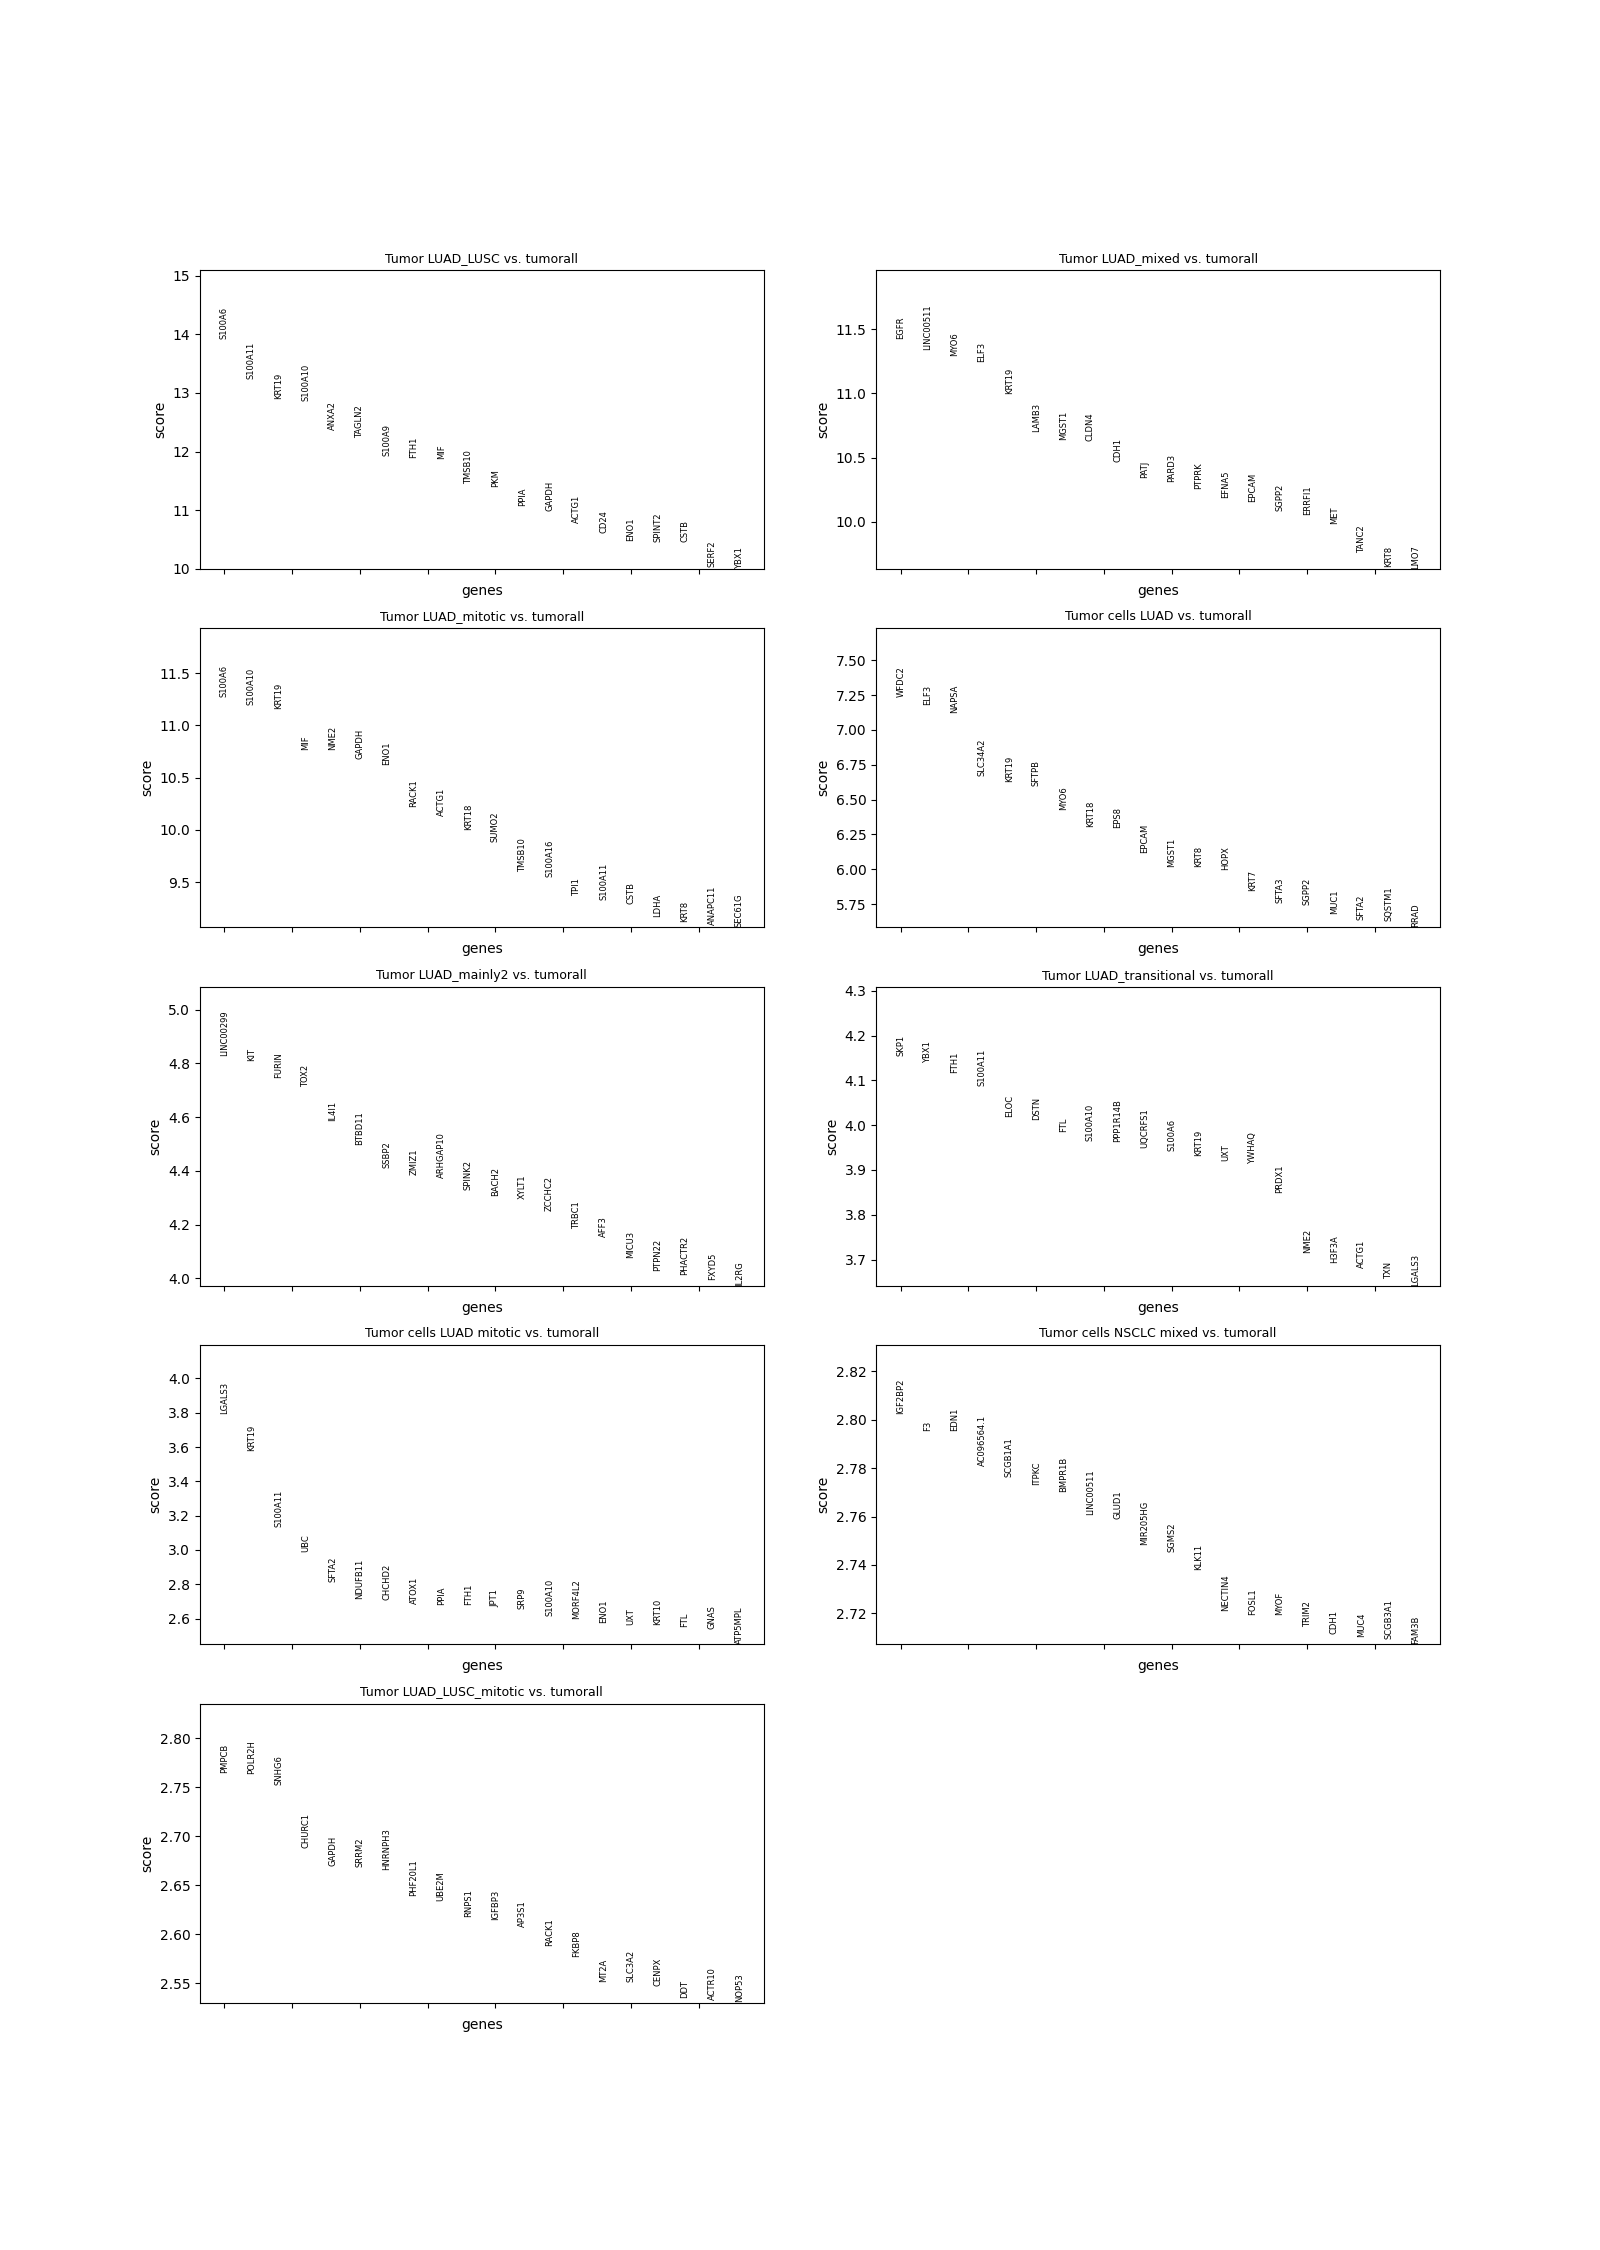
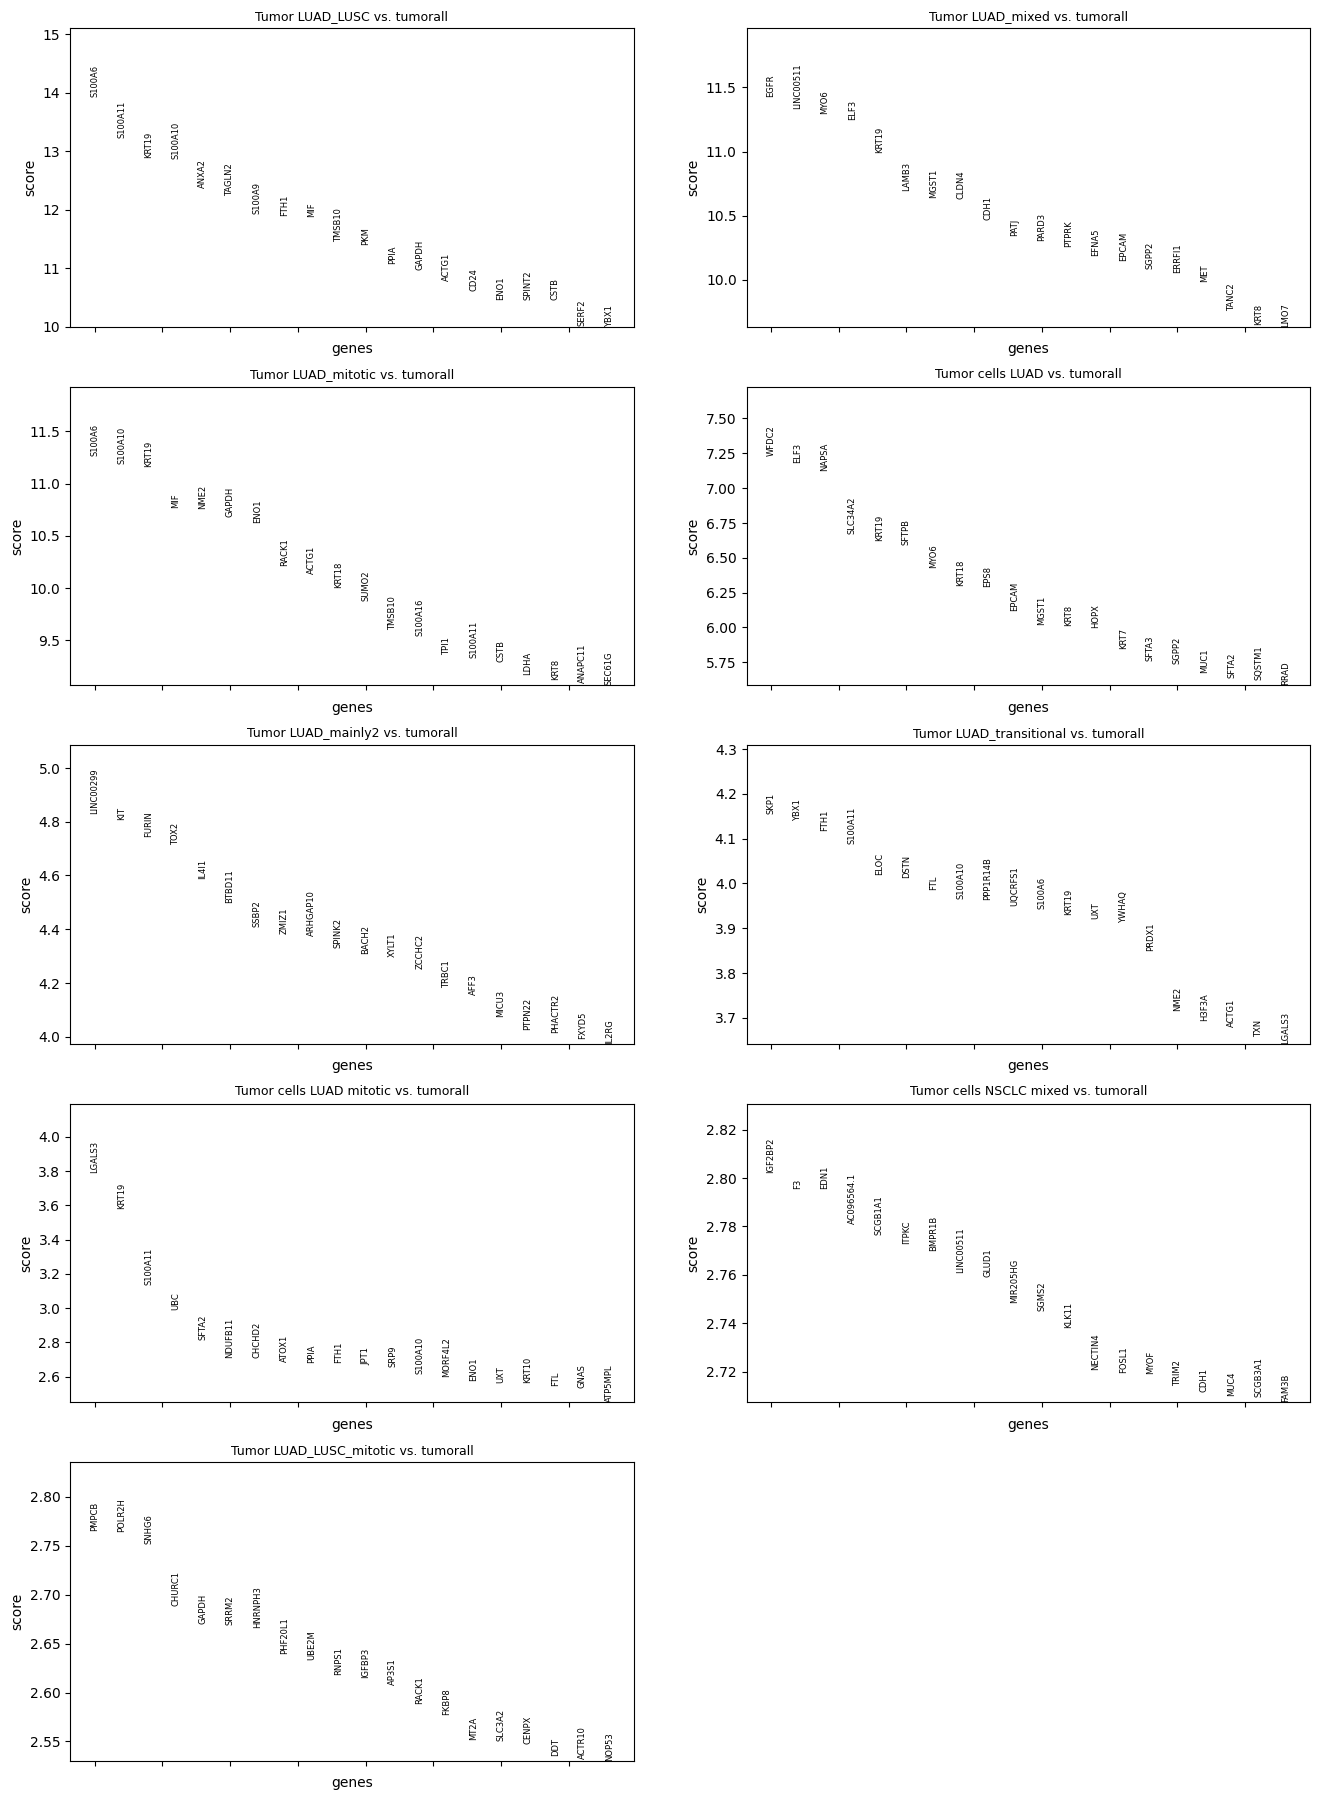
fix margins

diff --git a/nb_DE_wilcox/modal_DE.py b/nb_DE_wilcox/modal_DE.py
@@ -304,7 +304,7 @@ def upload_files_to_volume():
 def get_de(ext_name = "Zuani_2024_NSCLC", name = 'Zuani', time = 'I-II', skip_stages=False,
         cell_key = 'cell_type_adjusted', stage_key = 'stage', log_layer = 'do_log1p',
         num_processes = 40, load_pair = True, load_summary = True, load_regions = True,
-        load_gsea = True, load_gsea_heatmap = True
+        load_gsea = True, load_gsea_heatmap = True, zuani_symbols_summary = False
     ):
     
     print("This code is running on a remote worker!")
@@ -326,11 +326,6 @@ def get_de(ext_name = "Zuani_2024_NSCLC", name = 'Zuani', time = 'I-II', skip_st
 
     print(adata)
 
-    # query_stage = pd.read_csv(f'{backup_dir}/zuani_stage.csv')
-    # query_stage.index = adata.obs.index
-    # adata.obs['stage'] = query_stage['stage']
-    # print(adata.obs)
-
     stages = None
     if 'I-II' in time:
         stages = ['IA1', 'IB', 'IA2', 'IA3', 'IIB', 'II']
@@ -349,7 +344,7 @@ def get_de(ext_name = "Zuani_2024_NSCLC", name = 'Zuani', time = 'I-II', skip_st
     import gc
     gc.collect()
 
-    # TODO This determines regions
+    # TODO This should determine regions
     valid_types = list(adata.obs['type_tissue'].value_counts().loc[lambda x: x > 2].index)
     types = adata.obs.type_tissue.unique()
     tumor_types = [g for g in valid_types if 'Tumor' in g]
@@ -386,20 +381,21 @@ def get_de(ext_name = "Zuani_2024_NSCLC", name = 'Zuani', time = 'I-II', skip_st
         adata.uns[f'rank_genes_groups_summary_{region}'] = np.load(
             all_path + f'_summary_{region}.npy', allow_pickle='TRUE').item()
         
-        gene_name_map = pd.read_csv(
-            f'{backup_dir}/zuani_ensembl.csv')\
-            .iloc[:,:1]
-        gene_name_map = gene_name_map.to_dict()['Unnamed: 0']
-        gene_name_map = {str(k): v for k, v in gene_name_map.items()}
-        
-        print('THE GENE MAP')
-        print(str(gene_name_map)[:100])
-        for cell_type, genes_dict in adata.uns[f'rank_genes_groups_summary_{region}'].items():
-            updated_genes_dict = {}
-            for gene, scores in genes_dict.items():
-                new_gene_name = gene_name_map.get(gene, gene)
-                updated_genes_dict[new_gene_name] = scores
-            adata.uns[f'rank_genes_groups_summary_{region}'][cell_type] = updated_genes_dict
+        if zuani_symbols_summary:
+            gene_name_map = pd.read_csv(
+                f'{backup_dir}/zuani_ensembl.csv')\
+                .iloc[:,:1]
+            gene_name_map = gene_name_map.to_dict()['Unnamed: 0']
+            gene_name_map = {str(k): v for k, v in gene_name_map.items()}
+            
+            print('THE GENE MAP')
+            print(str(gene_name_map)[:100])
+            for cell_type, genes_dict in adata.uns[f'rank_genes_groups_summary_{region}'].items():
+                updated_genes_dict = {}
+                for gene, scores in genes_dict.items():
+                    new_gene_name = gene_name_map.get(gene, gene)
+                    updated_genes_dict[new_gene_name] = scores
+                adata.uns[f'rank_genes_groups_summary_{region}'][cell_type] = updated_genes_dict
 
     # regions = ['normalall']
 
@@ -486,7 +482,7 @@ def get_de(ext_name = "Zuani_2024_NSCLC", name = 'Zuani', time = 'I-II', skip_st
     # Hide any unused subplots
     if num_types % 2 != 0:
         fig.delaxes(axs[-1, -1])
-    plt.savefig(f'{backup_dir}/markergenes_{name}_{region}_{time}.png')
+    plt.savefig(f'{backup_dir}/markergenes_{name}_{region}_{time}.png', bbox_inches='tight')
     vol.commit()
 
     if not os.path.exists('h.all.v2023.2.Hs.symbols.gmt'):
@@ -510,12 +506,12 @@ def get_de(ext_name = "Zuani_2024_NSCLC", name = 'Zuani', time = 'I-II', skip_st
             combined_dfs[region].to_csv(gsea_path)
             vol.commit()
         
-        plt.figure(figsize=(15, 8))
+        plt.figure(figsize=(15, 10))
         sns.heatmap(combined_dfs[region], cmap='viridis')
         plt.title(f'Hallmarks Scores by Cell Type for {region}')
         plt.xlabel('Hallmarks')
         plt.ylabel('Cell Types')
-        plt.savefig(f'{gsea_folder}/heatmap_{name}_{region}_{time}.png')
+        plt.savefig(f'{gsea_folder}/heatmap_{name}_{region}_{time}.png', bbox_inches='tight')
         vol.commit()
 
     return None
@@ -534,22 +530,24 @@ def main():
     #                        cell_key='cell_type_adjusted', stage_key='stage', log_layer='do_log1p')
     
     future3 = get_de.spawn(ext_name="Deng_Liu_LUAD_2024", name='Deng', time='III-IV',
-                           cell_key='cell_type_adjusted', stage_key='Pathological stage', log_layer='data')
+                           cell_key='cell_type_adjusted', stage_key='Pathological stage', log_layer='data'
+                           ,load_regions=False)
     
     future4 = get_de.spawn(ext_name="Deng_Liu_LUAD_2024", name='Deng', time='I-II',
-                           cell_key='cell_type_adjusted', stage_key='Pathological stage', log_layer='data')
+                           cell_key='cell_type_adjusted', stage_key='Pathological stage', log_layer='data'
+                           ,load_regions=False)
     
-    future5 = get_de.spawn(ext_name="Hu_Zhang_2023_NSCLC", name='Hu', time='III-IV',
-                           cell_key='cell_type_adjusted', stage_key='Clinical Stage', log_layer='do_log1p')
+    # future5 = get_de.spawn(ext_name="Hu_Zhang_2023_NSCLC", name='Hu', time='III-IV',
+    #                        cell_key='cell_type_adjusted', stage_key='Clinical Stage', log_layer='do_log1p')
     
-    future6 = get_de.spawn(ext_name="Trinks_Bishoff_2021_NSCLC", name='Bishoff', time='III-IV',
-                           cell_key='cell_type_adjusted', skip_stages=True, log_layer=None)
+    # future6 = get_de.spawn(ext_name="Trinks_Bishoff_2021_NSCLC", name='Bishoff', time='III-IV',
+    #                        cell_key='cell_type_adjusted', skip_stages=True, log_layer=None)
     
     # Wait for both tasks to complete
     # future1.get()
     # future2.get()
     future3.get()
     future4.get()
-    future5.get()
-    future6.get()
+    # future5.get()
+    # future6.get()
 
